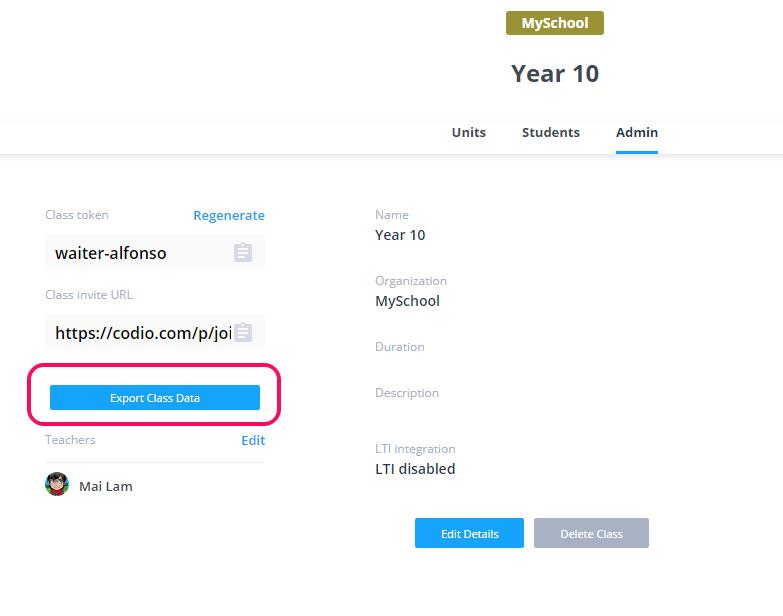
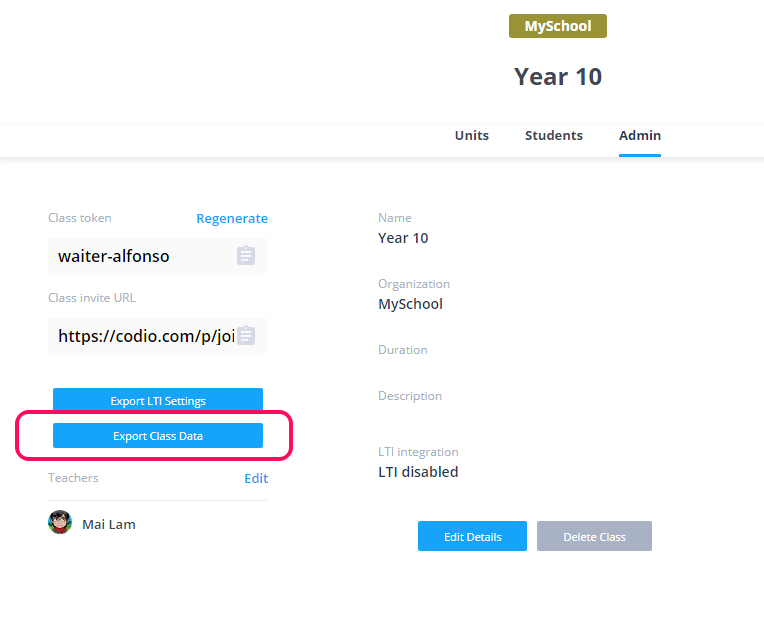
changelog #9419 #9279 #9385 #9400

diff --git a/source/docs/misc/changelog.html.md b/source/docs/misc/changelog.html.md
@@ -13,6 +13,10 @@ We do not report small bug fixes or issues that affect individual users, who we 
 
 **Febuary 2018**
 
+- `[I] [12th]`: Fix issue with file tree not updating correctly when files created via terminal
+- `[I] [12th]`: Fix issue with unit settings changing when [Upgrade Course](/docs/classes/unitmanagement/upgradecourse/) is run
+- `[I] [12th]`: Fix issue with icon handling
+- `[F] [ 9th]`: [Exporting LTI settings](/docs/classes/lti/keys#exportlti)
 - `[I] [ 9th]`: Fix problem with txt files not opening correctly
 - `[F] [ 8th]`: [Export class data]((docs/classes/classmanagement/export/) enabling all class data, including students workspaces to be exported.
 - `[I] [ 5th]`: Fix issue with book units

diff --git a/source/docs/classes/classmanagement/export.html.md b/source/docs/classes/classmanagement/export.html.md
@@ -20,6 +20,8 @@ Class data (including students workspaces) can be exported. We would recommend t
 
 Individual units or course module data can also be downloaded separately if required. See [Download CSV](/docs/classes/monitor/progress#downloadcsv) for more details
 
+If your class is LTI enabled you can also download all the unit LTI intergration URL's in a csv file. See [Exporting LTI settings](/docs/classes/lti/keys#exportlti) for more information.
+
 ### Working with student workspaces
 
 If in the future you have need to review any students workspace, these can be imported back into your Codio account. 

diff --git a/source/docs/classes/lti/keys.html.md b/source/docs/classes/lti/keys.html.md
@@ -50,3 +50,14 @@ The **Unit URL** is where you map each individual Unit within your Codio Class t
 <img alt="authtoken" src="/img/docs/lti/LMS-Unit-URL.png" class="simple"/>
 
 - Complete the mapping in your LMS.
+
+<a name="exportlti"></a>
+
+### Exporting LTI settings
+
+The LTI integration URLs for the units in a class can be exported.
+
+- Select the class, go to the Admin area and then press the **Export LTI Settings** button.
+
+<img alt="Export LTI" src="/img/docs/class_lti_export.png" class="simple"/>
+
